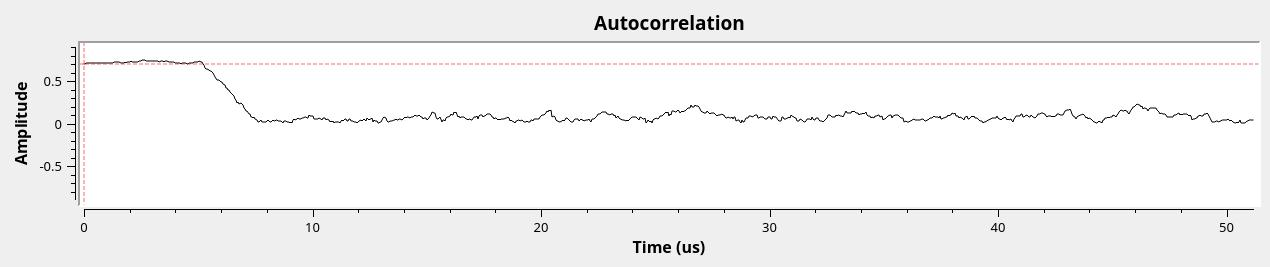
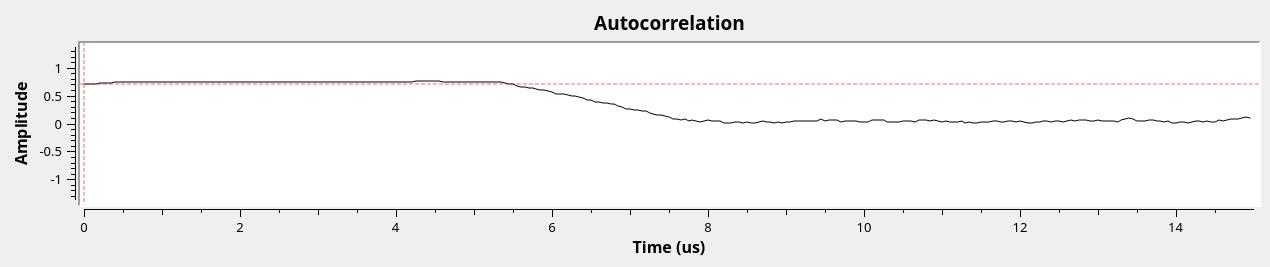
Updated assets

diff --git a/src/main.py b/src/main.py
@@ -107,6 +107,8 @@ class main(gr.top_block, Qt.QWidget):
         self.encoding = encoding = 0
         self.dif_lo = dif_lo = 1
         self.chan_est = chan_est = 0
+        self.att_sink_offset = att_sink_offset = -3
+        self.att_sink = att_sink = 0.01
 
         ##################################################
         # Blocks
@@ -248,6 +250,12 @@ class main(gr.top_block, Qt.QWidget):
         self._chan_est_button_group.buttonClicked[int].connect(
             lambda i: self.set_chan_est(self._chan_est_options[i]))
         self.top_layout.addWidget(self._chan_est_group_box)
+        self._att_sink_offset_range = Range(-5, 5, 0.01, -3, 200)
+        self._att_sink_offset_win = RangeWidget(self._att_sink_offset_range, self.set_att_sink_offset, "Input Waveform Attenuation Offset (Display Only)", "counter_slider", float, QtCore.Qt.Horizontal)
+        self.top_layout.addWidget(self._att_sink_offset_win)
+        self._att_sink_range = Range(0.00001, 1, 0.01, 0.01, 200)
+        self._att_sink_win = RangeWidget(self._att_sink_range, self.set_att_sink, "Input Waveform Attenuation (Display Only)", "counter_slider", float, QtCore.Qt.Horizontal)
+        self.top_layout.addWidget(self._att_sink_win)
         self.wifi_phy_hier_0 = wifi_phy_hier(
             bandwidth=samp_rate,
             chan_est=ieee802_11.LS,
@@ -267,63 +275,11 @@ class main(gr.top_block, Qt.QWidget):
         self._rx_gain_range = Range(0, 74.5, 0.01, 61, 200)
         self._rx_gain_win = RangeWidget(self._rx_gain_range, self.set_rx_gain, "RX Gain", "counter_slider", float, QtCore.Qt.Horizontal)
         self.top_layout.addWidget(self._rx_gain_win)
-        self.qtgui_time_sink_x_1 = qtgui.time_sink_c(
-            512, #size
-            samp_rate, #samp_rate
-            'RX Waveform', #name
-            1, #number of inputs
-            None # parent
-        )
-        self.qtgui_time_sink_x_1.set_update_time(0.10)
-        self.qtgui_time_sink_x_1.set_y_axis(-12, 12)
-
-        self.qtgui_time_sink_x_1.set_y_label('Amplitude', "")
-
-        self.qtgui_time_sink_x_1.enable_tags(False)
-        self.qtgui_time_sink_x_1.set_trigger_mode(qtgui.TRIG_MODE_FREE, qtgui.TRIG_SLOPE_POS, 0.0, 0, 0, "")
-        self.qtgui_time_sink_x_1.enable_autoscale(False)
-        self.qtgui_time_sink_x_1.enable_grid(True)
-        self.qtgui_time_sink_x_1.enable_axis_labels(True)
-        self.qtgui_time_sink_x_1.enable_control_panel(False)
-        self.qtgui_time_sink_x_1.enable_stem_plot(False)
-
-        self.qtgui_time_sink_x_1.disable_legend()
-
-        labels = ['Signal 1', 'Signal 2', 'Signal 3', 'Signal 4', 'Signal 5',
-            'Signal 6', 'Signal 7', 'Signal 8', 'Signal 9', 'Signal 10']
-        widths = [1, 1, 1, 1, 1,
-            1, 1, 1, 1, 1]
-        colors = ['blue', 'red', 'green', 'black', 'cyan',
-            'magenta', 'yellow', 'dark red', 'dark green', 'dark blue']
-        alphas = [1.0, 1.0, 1.0, 1.0, 1.0,
-            1.0, 1.0, 1.0, 1.0, 1.0]
-        styles = [1, 0, 1, 1, 1,
-            1, 1, 1, 1, 1]
-        markers = [0, -1, -1, -1, -1,
-            -1, -1, -1, -1, -1]
-
-
-        for i in range(2):
-            if len(labels[i]) == 0:
-                if (i % 2 == 0):
-                    self.qtgui_time_sink_x_1.set_line_label(i, "Re{{Data {0}}}".format(i/2))
-                else:
-                    self.qtgui_time_sink_x_1.set_line_label(i, "Im{{Data {0}}}".format(i/2))
-            else:
-                self.qtgui_time_sink_x_1.set_line_label(i, labels[i])
-            self.qtgui_time_sink_x_1.set_line_width(i, widths[i])
-            self.qtgui_time_sink_x_1.set_line_color(i, colors[i])
-            self.qtgui_time_sink_x_1.set_line_style(i, styles[i])
-            self.qtgui_time_sink_x_1.set_line_marker(i, markers[i])
-            self.qtgui_time_sink_x_1.set_line_alpha(i, alphas[i])
-
-        self._qtgui_time_sink_x_1_win = sip.wrapinstance(self.qtgui_time_sink_x_1.qwidget(), Qt.QWidget)
-        self.top_layout.addWidget(self._qtgui_time_sink_x_1_win)
-        self.qtgui_time_sink_x_0 = qtgui.time_sink_f(
+        self.qtgui_time_sink_x_0 = qtgui.time_sink_c(
             1024, #size
             samp_rate, #samp_rate
-            'Autocorrelation', #name
-            1, #number of inputs
+            'Autocorrelation , Input Waveform', #name
+            2, #number of inputs
             None # parent
         )
         self.qtgui_time_sink_x_0.set_update_time(0.10)
@@ -341,23 +297,26 @@ class main(gr.top_block, Qt.QWidget):
 
         self.qtgui_time_sink_x_0.disable_legend()
 
-        labels = ['Signal 1', 'Signal 2', 'Signal 3', 'Signal 4', 'Signal 5',
+        labels = ['Autocorrelation', 'Null ', 'Input Waveform Real', 'Input Waveform Imag', 'Signal 5',
             'Signal 6', 'Signal 7', 'Signal 8', 'Signal 9', 'Signal 10']
         widths = [1, 1, 1, 1, 1,
             1, 1, 1, 1, 1]
-        colors = ['blue', 'red', 'green', 'black', 'cyan',
+        colors = ['black', 'red', 'red', 'blue', 'cyan',
             'magenta', 'yellow', 'dark red', 'dark green', 'dark blue']
         alphas = [1.0, 1.0, 1.0, 1.0, 1.0,
             1.0, 1.0, 1.0, 1.0, 1.0]
-        styles = [1, 1, 1, 1, 1,
+        styles = [1, 0, 1, 1, 1,
             1, 1, 1, 1, 1]
-        markers = [0, -1, -1, -1, -1,
+        markers = [-1, 0, 0, 0, -1,
             -1, -1, -1, -1, -1]
 
 
-        for i in range(1):
+        for i in range(4):
             if len(labels[i]) == 0:
-                self.qtgui_time_sink_x_0.set_line_label(i, "Data {0}".format(i))
+                if (i % 2 == 0):
+                    self.qtgui_time_sink_x_0.set_line_label(i, "Re{{Data {0}}}".format(i/2))
+                else:
+                    self.qtgui_time_sink_x_0.set_line_label(i, "Im{{Data {0}}}".format(i/2))
             else:
                 self.qtgui_time_sink_x_0.set_line_label(i, labels[i])
             self.qtgui_time_sink_x_0.set_line_width(i, widths[i])
@@ -387,7 +346,7 @@ class main(gr.top_block, Qt.QWidget):
             '', '', '', '', '']
         widths = [1, 1, 1, 1, 1,
             1, 1, 1, 1, 1]
-        colors = ["blue", "red", "red", "red", "red",
+        colors = ["black", "red", "red", "red", "red",
             "red", "red", "red", "red", "red"]
         styles = [0, 0, 0, 0, 0,
             0, 0, 0, 0, 0]
@@ -428,7 +387,7 @@ class main(gr.top_block, Qt.QWidget):
             '', '', '', '', '']
         widths = [1, 1, 1, 1, 1,
             1, 1, 1, 1, 1]
-        colors = ["blue", "red", "red", "red", "red",
+        colors = ["black", "red", "red", "red", "red",
             "red", "red", "red", "red", "red"]
         styles = [0, 0, 0, 0, 0,
             0, 0, 0, 0, 0]
@@ -491,7 +450,9 @@ class main(gr.top_block, Qt.QWidget):
             block_tags=False)
         self.blocks_throttle_0 = blocks.throttle(gr.sizeof_gr_complex*1, samp_rate,True)
         self.blocks_stream_to_vector_0 = blocks.stream_to_vector(gr.sizeof_gr_complex*1, 64)
+        self.blocks_null_source_0 = blocks.null_source(gr.sizeof_float*1)
         self.blocks_multiply_const_xx_0 = blocks.multiply_const_cc((10**(snr/10.0))**.5, 1)
+        self.blocks_multiply_const_vxx_3 = blocks.multiply_const_cc(att_sink)
         self.blocks_multiply_const_vxx_2_0 = blocks.multiply_const_cc(1)
         self.blocks_multiply_const_vxx_2 = blocks.multiply_const_cc(1)
         self.blocks_multiply_const_vxx_1 = blocks.multiply_const_cc(1)
@@ -503,6 +464,7 @@ class main(gr.top_block, Qt.QWidget):
         self.blocks_moving_average_xx_0_0 = blocks.moving_average_ff((fir_win+16), 1, 4000, 1)
         self.blocks_moving_average_xx_0 = blocks.moving_average_cc(fir_win, 1, 4000, 1)
         self.blocks_message_strobe_0_0 = blocks.message_strobe(pmt.intern("".join(chr(i) for i in range(ord('A'), ord('Z')+1)) * (pdu_length // 26 + 1)), interval)
+        self.blocks_float_to_complex_0 = blocks.float_to_complex(1)
         self.blocks_file_sink_0_0 = blocks.file_sink(gr.sizeof_char*1, '/tmp/wifi_tx.pcap', True)
         self.blocks_file_sink_0_0.set_unbuffered(True)
         self.blocks_file_sink_0 = blocks.file_sink(gr.sizeof_char*1, '/tmp/wifi_rx.pcap', True)
@@ -512,6 +474,7 @@ class main(gr.top_block, Qt.QWidget):
         self.blocks_delay_0 = blocks.delay(gr.sizeof_gr_complex*1, 16)
         self.blocks_complex_to_mag_squared_0_0 = blocks.complex_to_mag_squared(1)
         self.blocks_complex_to_mag_0 = blocks.complex_to_mag(1)
+        self.blocks_add_const_vxx_0 = blocks.add_const_cc(att_sink_offset)
 
 
         ##################################################
@@ -524,13 +487,16 @@ class main(gr.top_block, Qt.QWidget):
         self.msg_connect((self.ieee802_11_parse_mac_0, 'out'), (self.foo_wireshark_connector_0, 'in'))
         self.msg_connect((self.wifi_phy_hier_0, 'mac_out'), (self.foo_wireshark_connector_0_0, 'in'))
         self.msg_connect((self.wifi_phy_hier_0, 'carrier'), (self.pdu_pdu_to_tagged_stream_0_0, 'pdus'))
+        self.connect((self.blocks_add_const_vxx_0, 0), (self.qtgui_time_sink_x_0, 1))
         self.connect((self.blocks_complex_to_mag_0, 0), (self.blocks_divide_xx_0, 0))
         self.connect((self.blocks_complex_to_mag_squared_0_0, 0), (self.blocks_moving_average_xx_0_0, 0))
         self.connect((self.blocks_delay_0, 0), (self.blocks_multiply_conjugate_cc_0, 1))
+        self.connect((self.blocks_delay_0, 0), (self.blocks_multiply_const_vxx_3, 0))
         self.connect((self.blocks_delay_0, 0), (self.ieee802_11_sync_short_0, 0))
         self.connect((self.blocks_delay_0_0, 0), (self.ieee802_11_sync_long_0, 1))
+        self.connect((self.blocks_divide_xx_0, 0), (self.blocks_float_to_complex_0, 0))
         self.connect((self.blocks_divide_xx_0, 0), (self.ieee802_11_sync_short_0, 2))
-        self.connect((self.blocks_divide_xx_0, 0), (self.qtgui_time_sink_x_0, 0))
+        self.connect((self.blocks_float_to_complex_0, 0), (self.qtgui_time_sink_x_0, 0))
         self.connect((self.blocks_moving_average_xx_0, 0), (self.blocks_complex_to_mag_0, 0))
         self.connect((self.blocks_moving_average_xx_0, 0), (self.ieee802_11_sync_short_0, 1))
         self.connect((self.blocks_moving_average_xx_0_0, 0), (self.blocks_multiply_const_vxx_0, 0))
@@ -542,12 +508,13 @@ class main(gr.top_block, Qt.QWidget):
         self.connect((self.blocks_multiply_const_vxx_1, 0), (self.ieee802_11_sync_long_0, 0))
         self.connect((self.blocks_multiply_const_vxx_2, 0), (self.blocks_multiply_const_vxx_2_0, 0))
         self.connect((self.blocks_multiply_const_vxx_2_0, 0), (self.wifi_phy_hier_0, 0))
+        self.connect((self.blocks_multiply_const_vxx_3, 0), (self.blocks_add_const_vxx_0, 0))
         self.connect((self.blocks_multiply_const_xx_0, 0), (self.channels_channel_model_0, 0))
+        self.connect((self.blocks_null_source_0, 0), (self.blocks_float_to_complex_0, 1))
         self.connect((self.blocks_stream_to_vector_0, 0), (self.fft_vxx_0, 0))
         self.connect((self.blocks_throttle_0, 0), (self.blocks_delay_0, 0))
         self.connect((self.blocks_throttle_0, 0), (self.blocks_multiply_conjugate_cc_0, 0))
         self.connect((self.blocks_throttle_0, 0), (self.blocks_multiply_const_vxx_0_1, 0))
-        self.connect((self.blocks_throttle_0, 0), (self.qtgui_time_sink_x_1, 0))
         self.connect((self.channels_channel_model_0, 0), (self.blocks_throttle_0, 0))
         self.connect((self.fft_vxx_0, 0), (self.ieee802_11_frame_equalizer_0, 0))
         self.connect((self.foo_packet_pad2_0, 0), (self.blocks_multiply_const_vxx_2, 0))
@@ -626,7 +593,6 @@ class main(gr.top_block, Qt.QWidget):
         self.blocks_throttle_0.set_sample_rate(self.samp_rate)
         self.ieee802_11_frame_equalizer_0.set_bandwidth(self.samp_rate)
         self.qtgui_time_sink_x_0.set_samp_rate(self.samp_rate)
-        self.qtgui_time_sink_x_1.set_samp_rate(self.samp_rate)
         self.wifi_phy_hier_0.set_bandwidth(self.samp_rate)
 
     def get_rx_gain(self):
@@ -714,6 +680,20 @@ class main(gr.top_block, Qt.QWidget):
         self.chan_est = chan_est
         self._chan_est_callback(self.chan_est)
         self.ieee802_11_frame_equalizer_0.set_algorithm(ieee802_11.Equalizer(self.chan_est))
+
+    def get_att_sink_offset(self):
+        return self.att_sink_offset
+
+    def set_att_sink_offset(self, att_sink_offset):
+        self.att_sink_offset = att_sink_offset
+        self.blocks_add_const_vxx_0.set_k(self.att_sink_offset)
+
+    def get_att_sink(self):
+        return self.att_sink
+
+    def set_att_sink(self, att_sink):
+        self.att_sink = att_sink
+        self.blocks_multiply_const_vxx_3.set_k(self.att_sink)
 
 
 
